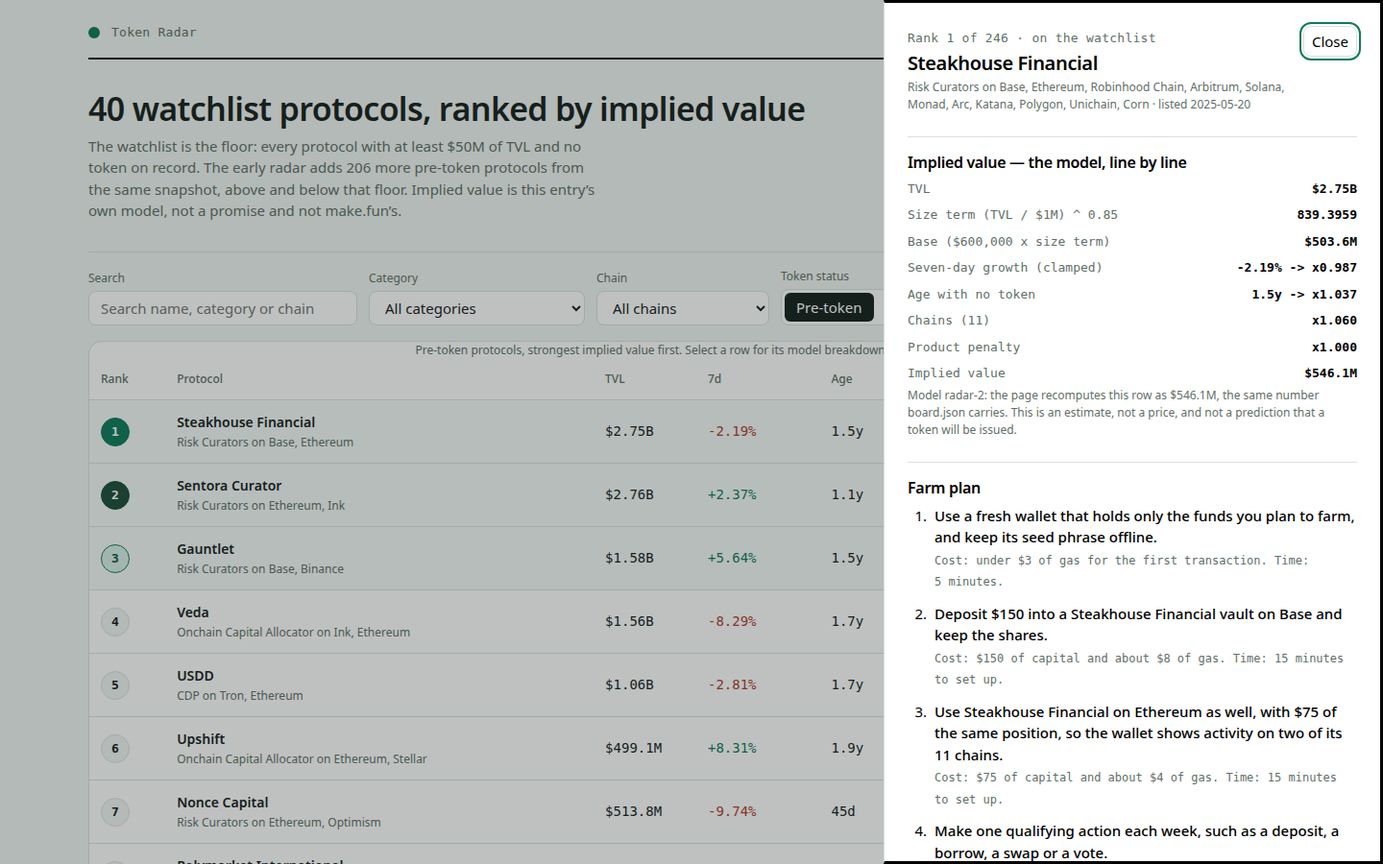
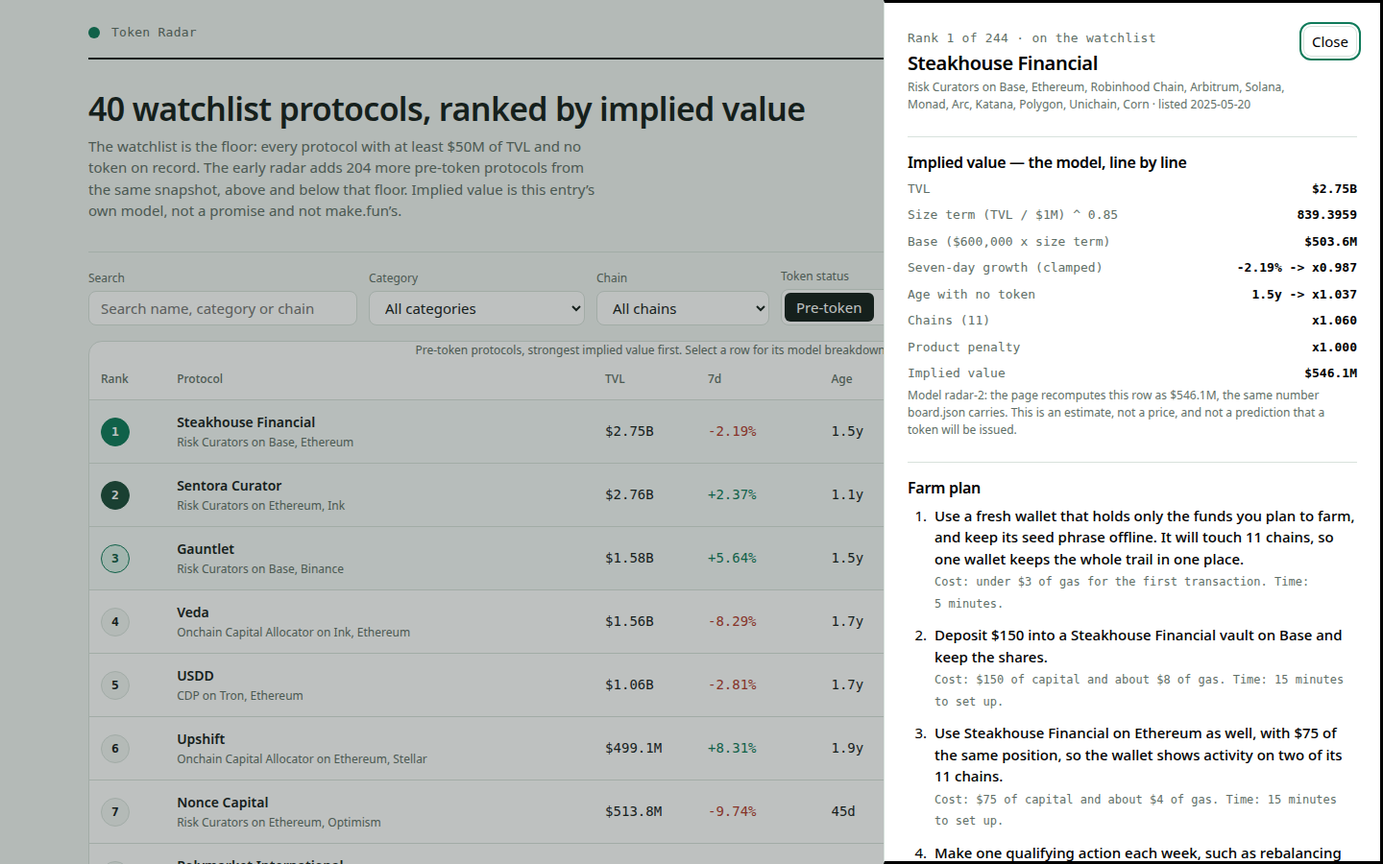
Token Launch Radar fixes (model radar-2): close product holes, vary farm steps, add dashboard panels
- Penalty categories: add Stablecoin Wrapper, Staking Pool, Cross Chain
  Bridge (usdcx and circle-gateway now set aside; saturn and reti-pooling
  stay ranked halved). Board 246 -> 244 rows, set aside 96 -> 98.
- Fix set-aside double-listing: board rows never appear in Set aside.
- Farm steps 1/4/5/7 varied per chain count, age band and category.
- Dashboard: category breakdown and limitations panels.
- main.ts self-check: rebuilds the dossier and re-scores the snapshot,
  exits non-zero on any mismatch.

Changed region(s): [[0.6562, 0.5911, 0.9688, 0.9956]]

diff --git a/lib/model.ts b/lib/model.ts
@@ -1,7 +1,7 @@
 // The token radar's model, radar-2: one snapshot of the protocol universe in, one ranked board out.
 //
 // The board covers every slug in the snapshot's watchlist (the floor, never a ceiling) and every
-// other rankable pre-token protocol in the snapshot: 246 rows in all on this snapshot. A protocol is
+// other rankable pre-token protocol in the snapshot: 244 rows in all on this snapshot. A protocol is
 // pre-token when its index entry records no token (no market cap, no CoinGecko id, no symbol); the
 // snapshot's live-token protocols are kept apart and shown as the market's own values, never mixed
 // into the ranked board.
@@ -25,7 +25,8 @@
 //                (a protocol live on more chains reaches more farmers)
 //   penalty    = 0.5 when the protocol looks like a product of a token that already trades:
 //                category Bridge / Canonical Bridge / Liquid Staking / Liquid Restaking /
-//                Restaked BTC / CEX, or a name carrying a whole word wrapped / staked / staking,
+//                Restaked BTC / CEX / Stablecoin Wrapper / Staking Pool / Cross Chain Bridge,
+//                or a name carrying a whole word wrapped / staked / staking,
 //                or a name beginning with an exchange's name; otherwise 1.0
 //   implied    = max(1, round(base x growthMult x maturity x divers x penalty))
 //
@@ -34,6 +35,26 @@
 // a staking product), so it is set aside with its reason instead of ranked as a launch. Below
 // the floor a flagged protocol may still rank, halved by the penalty, as an early find — the
 // starter ranked below-floor rows the same way. Exchanges and versioned pools never rank.
+//
+// The three categories added after the first build all fail the same test: does the value in
+// this protocol already trade somewhere else under a name everyone knows? A stablecoin wrapper
+// is a token in a different coat; a staking pool is a deposit receipt for a token that already
+// trades; a cross-chain bridge is the road a token travels on, not the token itself. Each of
+// them, at the floor, would otherwise sit near the top of the board on size alone and crowd out
+// protocols whose launch has not happened yet. Below the floor they still rank, halved, because
+// a small wrapper or pool can still be the first sign of a launch that has not been priced in.
+//
+// A row that makes the board is never also set aside: buildRadar passes the board's own slugs
+// as the exclusion set when it builds the set-aside list, so the two lists are disjoint by
+// construction and the dashboard never shows the same protocol twice under two different flags.
+//
+// Farm steps are written per protocol, not per category: the first step opens on the wallet and
+// the chains the protocol actually lives on, the weekly step names the action that fits the
+// category, the hold step gives a reason tied to the protocol's age band, and the log step tells
+// the farmer what to keep in the notebook that proves the work was done. Steps two, three and
+// six stay fixed — the size tier, the second chain, and the claim step — because those are the
+// same job for every row. Every step still states its cost and its time, and every claim step
+// still says the snapshot records no points programme, so the plan never invents a reward.
 //
 // The constants are the model's, stated in the dashboard and changeable in the model sandbox.
 
@@ -240,7 +261,7 @@ export function diversificationMultiplier(chainCount: number): number {
 }
 
 /** Categories that read as a product of a token that already trades. */
-const PRODUCT_CATEGORIES = new Set(['bridge', 'canonical bridge', 'liquid staking', 'liquid restaking', 'restaked btc', 'cex']);
+const PRODUCT_CATEGORIES = new Set(['bridge', 'canonical bridge', 'liquid staking', 'liquid restaking', 'restaked btc', 'cex', 'stablecoin wrapper', 'staking pool', 'cross chain bridge']);
 
 /** A whole word wrapped, staked or staking in a name. */
 const WRAPPED_WORD = /\b(wrapped|staked|staking)\b/i;
@@ -425,6 +446,80 @@ function actionFor(p: SnapshotProtocol, capital: number, chain: string): string 
 }
 
 /**
+ * How the farm plan varies from row to row, so 244 protocols do not all read like the same plan
+ * with a different name pasted in. Four of the seven steps vary; the other three are the same job
+ * for every row and stay fixed, which the dashboard's mirror keeps in step too.
+ *
+ *   Step 1 (the fresh wallet) varies on two axes: how many chains the protocol lives on, and how
+ *   old it is. Three or more chains means the wallet will sign on several networks, so the step
+ *   says so up front; one chain means a single-network wallet is enough. A protocol younger than
+ *   six months gets a line about being early and keeping the seed phrase offline from day one,
+ *   because its earliest farmers are the ones a snapshot is most likely to catch.
+ *
+ *   Step 4 (the weekly action) varies on the category alone, in the category's own vocabulary:
+ *   lending says supply and borrow, a dex says add and remove liquidity, a bridge says move
+ *   funds across, staking says restake the receipt, a prediction market says place a position.
+ *   The weekly step is the one the farmer repeats, so it is the one that has to sound like the
+ *   protocol it belongs to, not like a template.
+ *
+ *   Step 5 (the hold) varies on the age band: under six months the hold is framed as staying
+ *   through the first season of the protocol, six to twelve months as surviving the first year,
+ *   older than a year as holding a position that has already lasted. The hold length itself comes
+ *   from the same age band — 60 days for the youngest, 45 for the middle, 30 for the oldest —
+ *   because a young protocol's snapshot window is the one most likely to reward patience.
+ *
+ *   Step 7 (the notebook) varies on the chain count: several chains means a log per chain, so
+ *   the farmer can prove work on each one; one chain means a single log is enough. The step
+ *   always names the same three things to keep — the wallet address, the transaction hash and
+ *   the date — because those are the only proof a snapshot can ever be checked against.
+ *
+ * Nothing here invents a reward. Every claim step says the snapshot records no points programme
+ * for that protocol, and every step still carries its cost and its time, because a plan without
+ * either is a wish, not a plan.
+ */
+/** Step 1, the fresh wallet, varied by how many chains the plan touches and how old the protocol is. */
+function step1Text(p: SnapshotProtocol, age: number | null): string {
+  const chains = p.chains.length;
+  if (chains >= 3) return `Use a fresh wallet that holds only the funds you plan to farm, and keep its seed phrase offline. It will touch ${chains} chains, so one wallet keeps the whole trail in one place.`;
+  if (chains === 2) return `Use a fresh wallet that holds only the funds you plan to farm, and keep its seed phrase offline. It will be active on two chains, so keep the same wallet for both sides of the plan.`;
+  if (age === null) return `Use a fresh wallet that holds only the funds you plan to farm, and keep its seed phrase offline. The protocol's listing date is not on record, so treat the position as new and size the first deposit small.`;
+  if (age < 180) return `Use a fresh wallet that holds only the funds you plan to farm, and keep its seed phrase offline. The protocol is under six months old, so size the first deposit small and add later only if the position holds.`;
+  return `Use a fresh wallet that holds only the funds you plan to farm, and keep its seed phrase offline. Everything here runs on ${chainOf(p)}, so one wallet covers the whole plan.`;
+}
+
+/** Step 4, the weekly action, varied by the category's own vocabulary. */
+function weeklyText(p: SnapshotProtocol): string {
+  const c = (p.category ?? '').toLowerCase();
+  if (c.includes('lend') || c.includes('cdp') || c.includes('collateral')) return 'Make one qualifying action each week, such as a borrow against the deposit or a top-up of collateral.';
+  if (c.includes('dex') || c.includes('yield') || c.includes('leveraged farm')) return 'Make one qualifying action each week, such as adding a little liquidity or claiming and re-staking the yield.';
+  if (c.includes('bridge')) return 'Make one qualifying action each week, such as bridging a small amount back or using the bridged funds in the app.';
+  if (c.includes('staking') || c.includes('restak')) return 'Make one qualifying action each week, such as restaking the rewards or adding a small amount to the stake.';
+  if (c.includes('perpetual') || c.includes('derivative')) return 'Make one qualifying action each week, such as rebalancing the hedge or closing and reopening the small position.';
+  if (c.includes('prediction')) return 'Make one qualifying action each week, such as settling one market and opening another small one.';
+  if (c.includes('curator') || c.includes('allocator')) return 'Make one qualifying action each week, such as rebalancing between the vaults or adding to the winning one.';
+  if (c.includes('stable')) return 'Make one qualifying action each week, such as minting a little more of the stable asset or moving it between its pools.';
+  if (c.includes('rwa')) return 'Make one qualifying action each week, such as claiming the yield or adding to the yield asset.';
+  if (c.includes('insurance')) return 'Make one qualifying action each week, such as renewing the cover or adjusting it to the position size.';
+  return 'Make one qualifying action each week, such as a deposit, a borrow, a swap or a vote.';
+}
+
+/** Step 5, the hold, with the reason for the wait varied by the protocol's age. */
+function holdText(age: number | null, hold: number): string {
+  if (age === null) return `Hold the position for at least ${hold} days: the protocol's listing date is not on record, so a full month of activity is the safest qualifying window.`;
+  if (age < 180) return `Hold the position for at least ${hold} days: a protocol this young is usually judged on its earliest farmers, so the longest window counts most.`;
+  if (age < 365) return `Hold the position for at least ${hold} days so the activity is counted in more than one snapshot.`;
+  return `Hold the position for at least ${hold} days: a protocol that has run this long rewards steady holders, so staying in beats churning in and out.`;
+}
+
+/** Step 7, the farm log, varied by how many chains the log must cover. */
+function logText(p: SnapshotProtocol): string {
+  const chains = p.chains.length;
+  if (chains >= 3) return `Write the wallet, the dates, every chain and every transaction hash in a farm log, and plan the unwind in two steps so you are never forced to exit in one trade.`;
+  if (chains === 2) return `Write the wallet, the dates, both chains and every transaction hash in a farm log, and plan the unwind in two steps so you are never forced to exit in one trade.`;
+  return `Write the wallet, the dates, the chain and every transaction hash in a farm log, and plan the unwind in two steps so you are never forced to exit in one trade.`;
+}
+
+/**
  * A protocol's farm plan: seven steps, each an action with a cost and a time. The plan is derived
  * from the protocol's own record (category, chains, TVL, age), never from a hand-written list of
  * names, and it never claims a points programme the snapshot does not record: the snapshot carries
@@ -451,7 +546,7 @@ export function farmSteps(p: SnapshotProtocol, age: number | null): FarmStep[] {
         };
   return [
     {
-      text: `Use a fresh wallet that holds only the funds you plan to farm, and keep its seed phrase offline.`,
+      text: step1Text(p, age),
       cost: 'under $3 of gas for the first transaction',
       time: '5 minutes',
     },
@@ -462,12 +557,12 @@ export function farmSteps(p: SnapshotProtocol, age: number | null): FarmStep[] {
     },
     secondStep,
     {
-      text: `Make one qualifying action each week, such as a deposit, a borrow, a swap or a vote.`,
+      text: weeklyText(p),
       cost: 'about $2 of gas a week',
       time: '10 minutes a week',
     },
     {
-      text: `Hold the position for at least ${hold} days so the activity is counted in more than one snapshot.`,
+      text: holdText(age, hold),
       cost: `the $${capital} stays in the position`,
       time: `${hold} days`,
     },
@@ -477,7 +572,7 @@ export function farmSteps(p: SnapshotProtocol, age: number | null): FarmStep[] {
       time: '10 minutes',
     },
     {
-      text: `Write the wallet, the dates, the chains and every transaction hash in a farm log, and plan the unwind in two steps so you are never forced to exit in one trade.`,
+      text: logText(p),
       cost: 'nothing but the log',
       time: '5 minutes',
     },
@@ -501,9 +596,14 @@ export function liveRows(snapshot: Snapshot): LiveRow[] {
     }));
 }
 
-/** The pre-token protocols set aside from the ranked board, biggest TVL first, each with its reason. */
-export function setAsideRows(snapshot: Snapshot): SetAsideRow[] {
+/**
+ * The pre-token protocols set aside from the ranked board, biggest TVL first, each with its
+ * reason. `exclude` holds the board's slugs: a protocol that ranks — a watchlist row that carries
+ * the penalty, halved — is never also set aside, so the two lists cannot contradict each other.
+ */
+export function setAsideRows(snapshot: Snapshot, exclude: Set<string> = new Set()): SetAsideRow[] {
   return snapshot.protocols
+    .filter((p) => !exclude.has(p.slug))
     .map((p) => ({ p, reason: setAsideReason(p, snapshot.floor_usd) }))
     .filter((x): x is { p: SnapshotProtocol; reason: string } => x.reason !== null)
     .sort((a, b) => b.p.tvl_usd - a.p.tvl_usd || (a.p.slug < b.p.slug ? -1 : a.p.slug > b.p.slug ? 1 : 0))
@@ -546,7 +646,7 @@ export function radarRow(row: BoardRow, watchlist: Set<string>): RadarRow {
 export function buildRadar(snapshot: Snapshot, model: ModelConstants = MODEL): { board: BoardRow[]; radar: RadarData } {
   const board = buildBoard(snapshot, model);
   const live = liveRows(snapshot);
-  const setAside = setAsideRows(snapshot);
+  const setAside = setAsideRows(snapshot, new Set(board.map((r) => r.slug)));
   const watchlist = new Set(snapshot.watchlist);
   const early = board.filter((r) => !watchlist.has(r.slug)).length;
   const radar: RadarData = {

diff --git a/dashboard/app.js b/dashboard/app.js
@@ -6,7 +6,8 @@
 // checks the number board.json carries, so the page's code and the board's data are visibly the
 // same arithmetic. It mirrors lib/model.ts impliedValue exactly: log-scale size, clamped growth,
 // the age curve, chain diversification, and the 0.5 product penalty for protocols that read as a
-// wrapped, staked or bridged product of a token that already trades.
+// wrapped, staked, bridged, stablecoin-wrapper, staking-pool or cross-chain-bridge product of a
+// token that already trades.
 (function () {
   'use strict';
 
@@ -51,7 +52,7 @@
     if (n <= 4) return 1.03;
     return 1.06;
   }
-  var PRODUCT_CATEGORIES = { bridge: 1, 'canonical bridge': 1, 'liquid staking': 1, 'liquid restaking': 1, 'restaked btc': 1, cex: 1 };
+  var PRODUCT_CATEGORIES = { bridge: 1, 'canonical bridge': 1, 'liquid staking': 1, 'liquid restaking': 1, 'restaked btc': 1, cex: 1, 'stablecoin wrapper': 1, 'staking pool': 1, 'cross chain bridge': 1 };
   var EXCHANGES = ['binance', 'coinbase', 'bybit', 'kraken', 'bitget', 'okx', 'bitfinex', 'gemini'];
   function penaltyOf(row) {
     var cat = (row.category || '').toLowerCase();
@@ -130,6 +131,41 @@
     if (s.length < 20) s = s + " Hold the position and check the protocol's own page.";
     return s;
   }
+  function step1Text(p) {
+    var chains = (p.chains || []).length;
+    var age = p.age_days;
+    if (chains >= 3) return 'Use a fresh wallet that holds only the funds you plan to farm, and keep its seed phrase offline. It will touch ' + chains + ' chains, so one wallet keeps the whole trail in one place.';
+    if (chains === 2) return 'Use a fresh wallet that holds only the funds you plan to farm, and keep its seed phrase offline. It will be active on two chains, so keep the same wallet for both sides of the plan.';
+    if (age === null || age === undefined) return "Use a fresh wallet that holds only the funds you plan to farm, and keep its seed phrase offline. The protocol's listing date is not on record, so treat the position as new and size the first deposit small.";
+    if (age < 180) return 'Use a fresh wallet that holds only the funds you plan to farm, and keep its seed phrase offline. The protocol is under six months old, so size the first deposit small and add later only if the position holds.';
+    return 'Use a fresh wallet that holds only the funds you plan to farm, and keep its seed phrase offline. Everything here runs on ' + chainOf(p) + ', so one wallet covers the whole plan.';
+  }
+  function weeklyText(p) {
+    var c = (p.category || '').toLowerCase();
+    if (c.indexOf('lend') >= 0 || c.indexOf('cdp') >= 0 || c.indexOf('collateral') >= 0) return 'Make one qualifying action each week, such as a borrow against the deposit or a top-up of collateral.';
+    if (c.indexOf('dex') >= 0 || c.indexOf('yield') >= 0 || c.indexOf('leveraged farm') >= 0) return 'Make one qualifying action each week, such as adding a little liquidity or claiming and re-staking the yield.';
+    if (c.indexOf('bridge') >= 0) return 'Make one qualifying action each week, such as bridging a small amount back or using the bridged funds in the app.';
+    if (c.indexOf('staking') >= 0 || c.indexOf('restak') >= 0) return 'Make one qualifying action each week, such as restaking the rewards or adding a small amount to the stake.';
+    if (c.indexOf('perpetual') >= 0 || c.indexOf('derivative') >= 0) return 'Make one qualifying action each week, such as rebalancing the hedge or closing and reopening the small position.';
+    if (c.indexOf('prediction') >= 0) return 'Make one qualifying action each week, such as settling one market and opening another small one.';
+    if (c.indexOf('curator') >= 0 || c.indexOf('allocator') >= 0) return 'Make one qualifying action each week, such as rebalancing between the vaults or adding to the winning one.';
+    if (c.indexOf('stable') >= 0) return 'Make one qualifying action each week, such as minting a little more of the stable asset or moving it between its pools.';
+    if (c.indexOf('rwa') >= 0) return 'Make one qualifying action each week, such as claiming the yield or adding to the yield asset.';
+    if (c.indexOf('insurance') >= 0) return 'Make one qualifying action each week, such as renewing the cover or adjusting it to the position size.';
+    return 'Make one qualifying action each week, such as a deposit, a borrow, a swap or a vote.';
+  }
+  function holdText(age, hold) {
+    if (age === null || age === undefined) return 'Hold the position for at least ' + hold + " days: the protocol's listing date is not on record, so a full month of activity is the safest qualifying window.";
+    if (age < 180) return 'Hold the position for at least ' + hold + ' days: a protocol this young is usually judged on its earliest farmers, so the longest window counts most.';
+    if (age < 365) return 'Hold the position for at least ' + hold + ' days so the activity is counted in more than one snapshot.';
+    return 'Hold the position for at least ' + hold + ' days: a protocol that has run this long rewards steady holders, so staying in beats churning in and out.';
+  }
+  function logText(p) {
+    var chains = (p.chains || []).length;
+    if (chains >= 3) return 'Write the wallet, the dates, every chain and every transaction hash in a farm log, and plan the unwind in two steps so you are never forced to exit in one trade.';
+    if (chains === 2) return 'Write the wallet, the dates, both chains and every transaction hash in a farm log, and plan the unwind in two steps so you are never forced to exit in one trade.';
+    return 'Write the wallet, the dates, the chain and every transaction hash in a farm log, and plan the unwind in two steps so you are never forced to exit in one trade.';
+  }
   function farmSteps(p) {
     var chain = chainOf(p);
     var capital = capitalFor(p);
@@ -139,13 +175,13 @@
       ? { text: 'Use ' + p.name + ' on ' + second + ' as well, with $' + Math.max(25, Math.floor(capital / 2)) + ' of the same position, so the wallet shows activity on two of its ' + p.chains.length + ' chains.', cost: '$' + Math.max(25, Math.floor(capital / 2)) + ' of capital and about $4 of gas', time: '15 minutes to set up' }
       : { text: 'Make a second, different action inside ' + p.name + ' on ' + chain + ', such as a swap or a deposit of another asset, so the wallet shows more than one interaction type.', cost: 'about $2 of gas', time: '10 minutes' };
     return [
-      { text: 'Use a fresh wallet that holds only the funds you plan to farm, and keep its seed phrase offline.', cost: 'under $3 of gas for the first transaction', time: '5 minutes' },
+      { text: step1Text(p), cost: 'under $3 of gas for the first transaction', time: '5 minutes' },
       { text: actionFor(p, capital, chain), cost: '$' + capital + ' of capital and about $' + (capital >= 150 ? 8 : 4) + ' of gas', time: '15 minutes to set up' },
       secondStep,
-      { text: 'Make one qualifying action each week, such as a deposit, a borrow, a swap or a vote.', cost: 'about $2 of gas a week', time: '10 minutes a week' },
-      { text: 'Hold the position for at least ' + hold + ' days so the activity is counted in more than one snapshot.', cost: 'the $' + capital + ' stays in the position', time: hold + ' days' },
+      { text: weeklyText(p), cost: 'about $2 of gas a week', time: '10 minutes a week' },
+      { text: holdText(p.age_days, hold), cost: 'the $' + capital + ' stays in the position', time: hold + ' days' },
       { text: "Before you withdraw, open the protocol's own points or rewards page from a link the protocol itself publishes, and claim only there. This snapshot records no points programme for " + p.name + ', so treat any other site promising one as a scam until the protocol says otherwise.', cost: 'no fee to check, and never pay to claim', time: '10 minutes' },
-      { text: 'Write the wallet, the dates, the chains and every transaction hash in a farm log, and plan the unwind in two steps so you are never forced to exit in one trade.', cost: 'nothing but the log', time: '5 minutes' }
+      { text: logText(p), cost: 'nothing but the log', time: '5 minutes' }
     ].map(stepText);
   }
 
@@ -364,6 +400,43 @@
     );
   }
 
+  function categoryPanel() {
+    var byCat = {};
+    DATA.rows.forEach(function (r) {
+      var c = r.category || 'Other';
+      if (!byCat[c]) byCat[c] = { count: 0, tvl: 0 };
+      byCat[c].count += 1;
+      byCat[c].tvl += r.tvl_usd;
+    });
+    var cats = Object.keys(byCat).sort(function (a, b) { return byCat[b].tvl - byCat[a].tvl; });
+    return el('section', { class: 'panel cats' },
+      el('h2', { text: 'Where the board comes from' }),
+      el('p', { class: 'sub', text: 'Every ranked row grouped by the category the snapshot records. A category with a few very large protocols can outweigh one with many small ones; the board ranks protocols, never categories, so a small category can still hold the top row.' }),
+      el('div', { class: 'cats-grid' }, cats.map(function (c) {
+        return el('div', { class: 'cat' },
+          el('b', { text: c }),
+          el('span', { class: 'num', text: byCat[c].count + (byCat[c].count === 1 ? ' row' : ' rows') }),
+          el('span', { class: 'num', text: fmtUsd(byCat[c].tvl) + ' TVL' })
+        );
+      }))
+    );
+  }
+
+  function limitationsPanel() {
+    return el('section', { class: 'panel limits' },
+      el('h2', { text: 'What this radar does not do' }),
+      el('p', { class: 'sub', text: 'A radar is a lens, not a promise. Implied value is this entry\u2019s own model applied to one sealed snapshot dated ' + DATA.as_of + '; it is not a price, not a prediction that a token will be issued, and not make.fun\u2019s view of any protocol.' }),
+      el('ul', { class: 'limits-list' },
+        el('li', { text: 'Pre-token means the snapshot records no token for the protocol. That is a statement about the record, never a guarantee that no token exists anywhere.' }),
+        el('li', { text: 'The snapshot is frozen in time. A protocol that launched, shut down or changed shape after ' + DATA.as_of + ' still shows here exactly as the snapshot caught it.' }),
+        el('li', { text: 'Farm plans are generic guidance built from a protocol\u2019s category, chains, size and age. They are not financial advice, and no plan here promises an airdrop.' }),
+        el('li', { text: 'A product set aside at the floor is not judged worthless. It is judged the wrong shape for a launch ranking, because its value already trades under another name.' }),
+        el('li', { text: 'The model reads only the snapshot. It knows nothing about a protocol\u2019s team, its audits, its governance, or whether its community would even want a token.' }),
+        el('li', { text: 'Ranks are relative. The gap between rank 1 and rank 2 is a fact of this snapshot; on a different snapshot, or under a different model, the order would move.' })
+      )
+    );
+  }
+
   function modelPanel() {
     var m = DATA.model;
     return el('section', { class: 'panel model' },
@@ -439,6 +512,8 @@
     shell.appendChild(controls());
     shell.appendChild(state.tab === 'pre-token' ? boardTable() : state.tab === 'live' ? liveTable() : setAsideTable());
     if (state.tab === 'pre-token') shell.appendChild(modelPanel());
+    if (state.tab === 'pre-token') shell.appendChild(categoryPanel());
+    if (state.tab === 'pre-token') shell.appendChild(limitationsPanel());
     app.appendChild(shell);
     app.setAttribute('aria-busy', 'false');
     if (!dialog.isConnected) app.appendChild(dialog);

diff --git a/main.ts b/main.ts
@@ -85,6 +85,27 @@ for (const name of shots) {
 // The dossier is written last: the scorer rebuilds it from this /output and compares bytes.
 writeFileSync(join(out, 'dossier.json'), buildDossier(out, { text_max_bytes: TEXT_MAX_BYTES, screenshots: SCREENSHOT_CAPS, dashboard: { max_files: 400, max_bytes: 4_194_304 } }));
 
+// Verify the run before reporting it: rebuild the dossier from the output directory and compare
+// bytes with the copy just written. A mismatch means the program is not deterministic, and the
+// entry must not ship on a run that cannot reproduce itself. The rebuild is safe to repeat here
+// because the dossier is built only from the dashboard files and the screenshots, never from the
+// dossier file itself, so writing it first cannot change what the rebuild produces.
+const dossierWritten = readFileSync(join(out, 'dossier.json'));
+const dossierRebuilt = buildDossier(out, { text_max_bytes: TEXT_MAX_BYTES, screenshots: SCREENSHOT_CAPS, dashboard: { max_files: 400, max_bytes: 4_194_304 } });
+if (!dossierWritten.equals(dossierRebuilt)) {
+  process.stderr.write('token radar: dossier.json does not match a fresh rebuild of the same output: the run is not deterministic\n');
+  process.exit(1);
+}
+
+// The board and the dashboard data are pure functions of the snapshot, so scoring the same
+// snapshot a second time must agree with the first line for line. Anything else is a bug in the
+// model, not in the data, and the run must stop here rather than hand a broken board to a judge.
+const { board: boardAgain, radar: radarAgain } = buildRadar(snapshot);
+if (JSON.stringify({ rows: board }) !== JSON.stringify({ rows: boardAgain }) || dataScript(radar) !== dataScript(radarAgain)) {
+  process.stderr.write('token radar: a second scoring of the same snapshot disagrees with the first\n');
+  process.exit(1);
+}
+
 process.stdout.write(
   `token radar: ${snapshot.protocols.length} protocols, ${snapshot.watchlist.length} on the watchlist, ${board.length} rows scored (${radar.early_size} early, ${radar.live_size} live set aside)\n` +
     `token radar: wrote ${join(out, 'board.json')}, ${join(out, 'data.js')}, ${join(out, 'dashboard')} (3 files), ${join(out, 'screenshots')} (${shots.length} images) and ${join(out, 'dossier.json')}\n`,

diff --git a/dashboard/app.css b/dashboard/app.css
@@ -156,3 +156,15 @@ tbody tr:nth-child(-n+3) td { background: color-mix(in srgb, var(--accent) 4%, v
 .top { border-bottom: 2px solid var(--ink); }
 .lede h1 { font-size: 34px; }
 .formula { white-space: pre-wrap; }
+
+/* radar-2 additions: the two panels that close the pre-token page. */
+.panel.cats { margin-top: 28px; }
+.cats-grid { display: grid; grid-template-columns: repeat(auto-fill, minmax(180px, 1fr)); gap: 10px; margin-top: 12px; }
+.cat { border: 1px solid var(--border); border-radius: 10px; padding: 10px 12px; background: var(--surface-2); display: flex; flex-direction: column; gap: 2px; }
+.cat b { font-size: 14px; }
+.cat .num { color: var(--muted); font-size: 13px; }
+
+.panel.limits { margin-top: 28px; }
+.limits-list { margin: 12px 0 0; padding-left: 20px; color: var(--text); font-size: 14px; line-height: 1.6; }
+.limits-list li { margin-bottom: 6px; }
+.limits-list li:last-child { margin-bottom: 0; }
